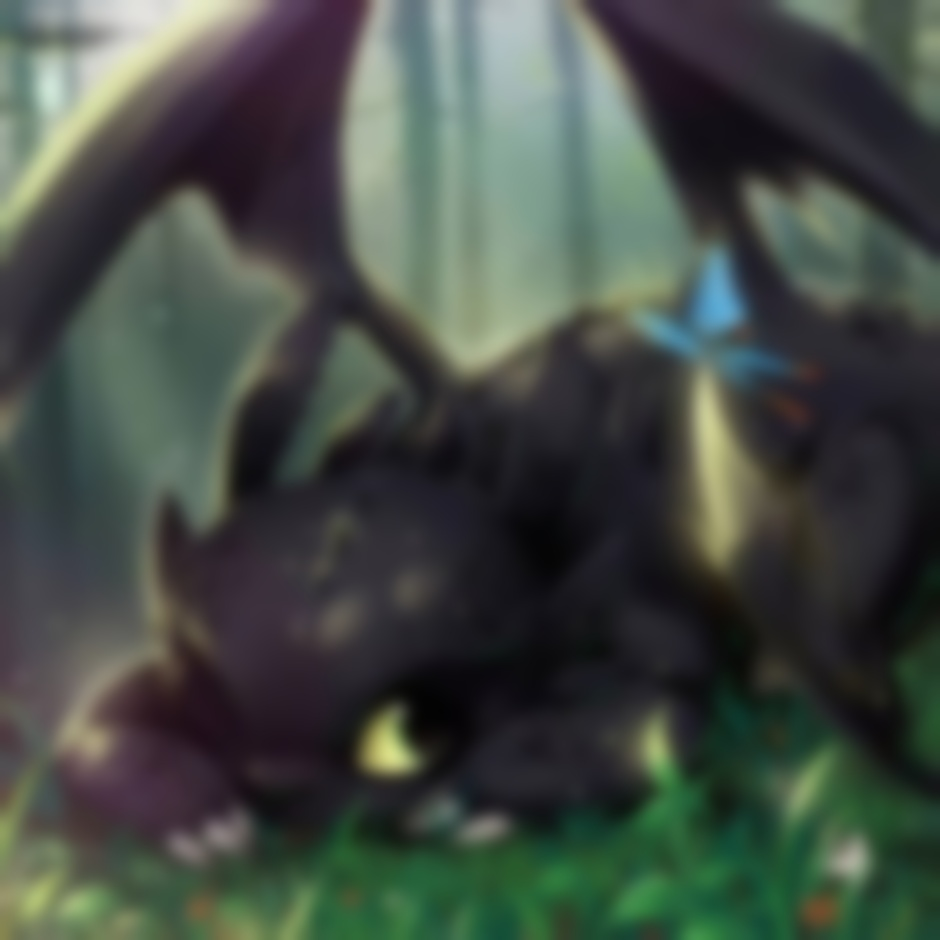
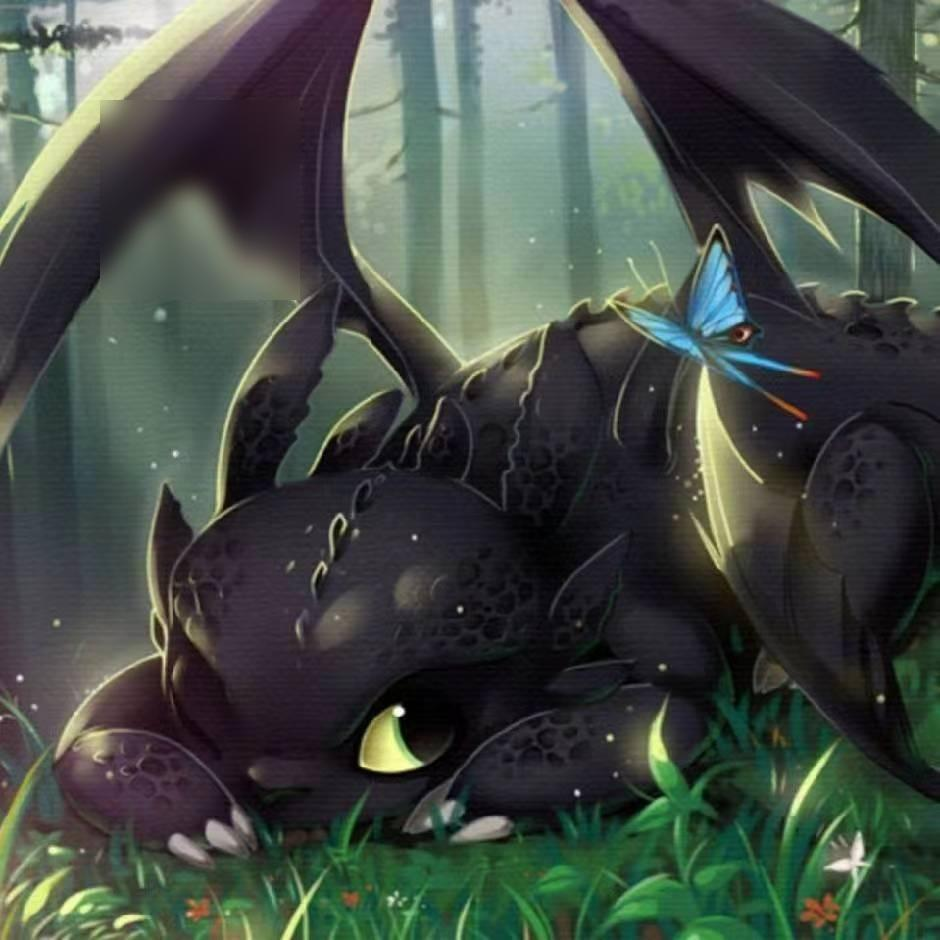
评估图像时返回失真类型及其具体概率(置信度)

diff --git a/noisify.py b/noisify.py
@@ -1,1 +1,108 @@
 # 给图片加上不同种类的噪声
+from PIL import Image, ImageFilter
+
+def add_gaussian_blur(img: Image.Image, x: int = None, y: int = None, width: int = None, height: int = None, radius: float = 5.0) -> Image.Image:
+    """
+    在指定矩形区域加上高斯模糊. 如果未指定坐标和宽高，则直接作用于全图.
+    
+    :param img: 原始 PIL Image 对象
+    :param x: 矩形区域起点横坐标 (为None时默认从0开始)
+    :param y: 矩形区域起点纵坐标 (为None时默认从0开始)
+    :param width: 矩形区域的宽 (为None时默认直到图片边缘)
+    :param height: 矩形区域的高 (为None时默认直到图片边缘)
+    :param radius: 高斯模糊的程度(半径参数，值越大越模糊)
+    :return: 处理后的新图片对象
+    """
+    result = img.copy()
+    
+    x = 0 if x is None else x
+    y = 0 if y is None else y
+    width = img.width if width is None else width
+    height = img.height if height is None else height
+    
+    # 限制边界，防止越界
+    x1, y1 = max(0, x), max(0, y)
+    x2, y2 = min(img.width, x + width), min(img.height, y + height)
+    
+    if x1 >= x2 or y1 >= y2:
+        return result  # 区域无效直接返回
+        
+    box = (x1, y1, x2, y2)
+    region = result.crop(box)
+    
+    # 应用高斯模糊
+    region = region.filter(ImageFilter.GaussianBlur(radius=radius))
+    
+    result.paste(region, box)
+    return result
+
+
+def add_mosaic(img: Image.Image, x: int = None, y: int = None, width: int = None, height: int = None, pixel_size: int = 10) -> Image.Image:
+    """
+    在指定矩形区域加上马赛克模糊. 如果未指定坐标和宽高，则直接作用于全图.
+    
+    :param img: 原始 PIL Image 对象
+    :param x: 矩形区域起点横坐标 (为None时默认从0开始)
+    :param y: 矩形区域起点纵坐标 (为None时默认从0开始)
+    :param width: 矩形区域的宽 (为None时默认直到图片边缘)
+    :param height: 矩形区域的高 (为None时默认直到图片边缘)
+    :param pixel_size: 马赛克方块的边长大小(程度参数，值越大马赛克越大)
+    :return: 处理后的新图片对象
+    """
+    result = img.copy()
+    
+    x = 0 if x is None else x
+    y = 0 if y is None else y
+    width = img.width if width is None else width
+    height = img.height if height is None else height
+    
+    # 限制边界，防止越界
+    x1, y1 = max(0, x), max(0, y)
+    x2, y2 = min(img.width, x + width), min(img.height, y + height)
+    
+    if x1 >= x2 or y1 >= y2:
+        return result  # 区域无效直接返回
+        
+    box = (x1, y1, x2, y2)
+    region = result.crop(box)
+    real_width = x2 - x1
+    real_height = y2 - y1
+    
+    # 兼容处理 PIL 版本常量
+    resample_filter = getattr(Image, 'Resampling', Image).NEAREST
+    
+    # 实现马赛克: 先按比例缩小, 再用最近邻插值放大回原尺寸
+    small_size = (max(1, real_width // pixel_size), max(1, real_height // pixel_size))
+    region = region.resize(small_size, resample=resample_filter)
+    region = region.resize((real_width, real_height), resample=resample_filter)
+    
+    result.paste(region, box)
+    return result
+
+
+if __name__ == '__main__':
+    # 测试代码样例
+    import os
+    
+    test_img_path = 'test_imgs/toothless.jpg'
+    out_dir = 'test_imgs'
+    
+    if os.path.exists(test_img_path):
+        img = Image.open(test_img_path).convert('RGB')
+        
+        # 测试 1: 加高斯模糊 (如起点在100,100，区域大小200x200，模糊半径10)
+        blur_img = add_gaussian_blur(img, x=100, y=100, width=200, height=200, radius=10.0)
+        blur_img.save(os.path.join(out_dir, 'toothless_blur.jpg'))
+        
+        # 测试 2: 加马赛克 (如起点在300,100，区域大小200x200，马赛克块大小15)
+        mosaic_img = add_mosaic(img, x=300, y=100, width=200, height=200, pixel_size=15)
+        mosaic_img.save(os.path.join(out_dir, 'toothless_mosaic.jpg'))
+        
+        # 测试 3: 全图加模糊/马赛克
+        full_blur_img = add_gaussian_blur(img, radius=10.0)
+        full_blur_img.save(os.path.join(out_dir, 'toothless_full_blur.jpg'))
+        
+        full_mosaic_img = add_mosaic(img, pixel_size=15)
+        full_mosaic_img.save(os.path.join(out_dir, 'toothless_full_mosaic.jpg'))
+        
+        print("测试图片生成完毕!")

diff --git a/utils/LIQE.py b/utils/LIQE.py
@@ -1,14 +1,16 @@
-import torch
-import numpy as np
-import clip
-import random
 from itertools import product
-from PIL import Image, ImageFile
-import torch.nn.functional as F
+
+import clip
+import torch
 import torch.nn as nn
+import torch.nn.functional as F
+from PIL import ImageFile
 from torchvision.transforms import Normalize
 
 ImageFile.LOAD_TRUNCATED_IMAGES = True
+
+# 失真类型概率阈值, 超过该阈值的失真类型将被保留; 如果没有任何失真类型超过该阈值, 则保留概率最高的一个失真类型
+DISTORTION_PROB_THRESHOLD = 0.10
 
 scenes = ['animal', 'cityscape', 'human', 'indoor', 'landscape', 'night', 'plant', 'still_life', 'others']
 scene2label = {'animal':0, 'cityscape':1, 'human':2, 'indoor':3, 'landscape':4, 'night':5, 'plant':6, 'still_life':7, 'others':8}
@@ -69,7 +71,7 @@ class LIQE(nn.Module):
         x = self.normalize(x)
         x = x.unfold(2, 224, self.step).unfold(3, 224, self.step).permute(0, 2, 3, 1, 4, 5).reshape(batch_size, -1, 3, 224, 224)
 
-        sel_step = x.size(0) // self.num_patch
+        sel_step = x.size(1) // self.num_patch
         sel = torch.zeros(self.num_patch)
         for i in range(self.num_patch):
             sel[i] = sel_step * i
@@ -97,19 +99,41 @@ class LIQE(nn.Module):
 
         similarity_scene = logits_per_image.sum(3).sum(1)
         similarity_distortion = logits_per_image.sum(1).sum(1)
-        distortion_index = similarity_distortion.argmax(dim=1)
         scene_index = similarity_scene.argmax(dim=1)
+
+        # print('similarity_scene = ', similarity_scene)
+
+        # 保留所有概率超过阈值的失真类型; 如果没有任何失真类型超过该阈值, 则保留概率最高的一个失真类型
+        distortions = []
+        distortion_top1 = []
+        for sample_probs in similarity_distortion:
+            candidates = []
+            for idx, prob in enumerate(sample_probs.tolist()):
+                prob = float(prob)
+                if prob >= DISTORTION_PROB_THRESHOLD:
+                    candidates.append((idx, prob))
+
+            if not candidates:
+                top_idx = int(sample_probs.argmax().item())
+                candidates = [(top_idx, float(sample_probs[top_idx].item()))]
+            else:
+                candidates.sort(key=lambda x: x[1], reverse=True)
+
+            selected = [{"index": idx, "prob": round(prob, 4)} for idx, prob in candidates]
+            distortions.append(selected)
+            distortion_top1.append(selected[0]["index"])
+
+        distortion_top1 = torch.tensor(distortion_top1, dtype=torch.long, device=similarity_distortion.device)
 
         quality = 1 * logits_quality[:, 0] + 2 * logits_quality[:, 1] + 3 * logits_quality[:, 2] + \
                              4 * logits_quality[:, 3] + 5 * logits_quality[:, 4]
 
-        # Return class codes so downstream services can use stable numeric values.
-        return quality, scene_index, distortion_index
+        return quality, scene_index, distortion_top1, distortions
 
 if __name__ == '__main__':
     device = 'cuda:0' if torch.cuda.is_available() else 'cpu'
-    ckpt = './LIQE.pt'
+    ckpt = '../weights/LIQE.pt'
     liqe = LIQE(ckpt, device)
 
     x = torch.randn(1,3,512,512).to(device)
-    q, s, d = liqe(x)
+    q, s, d, ds = liqe(x)

diff --git a/predict_liqe.py b/predict_liqe.py
@@ -2,12 +2,46 @@ import torch
 import numpy as np
 import random
 import os
+import json
 import pandas as pd
 from tqdm import tqdm
 from PIL import Image, ImageFile
 ImageFile.LOAD_TRUNCATED_IMAGES = True
 from utils.LIQE import LIQE
 from torchvision.transforms import ToTensor
+
+def predict_single_image(img_path, ckpt_path, model=None):
+    """
+    评估单张图片并返回结果字典，不保存到文件。
+    支持传入已加载的 model，以避免频繁调用时重复加载模型。
+    """
+    device = torch.device('cuda' if torch.cuda.is_available() else 'cpu')
+
+    if model is None:
+        try:
+            model = LIQE(ckpt_path, device)
+            model.eval()
+        except Exception as e:
+            print(f"模型加载失败: {e}")
+            return None
+
+    try:
+        img = Image.open(img_path).convert('RGB')
+        img_tensor = ToTensor()(img).unsqueeze(0)
+
+        with torch.no_grad():
+            q, s, d, ds = model(img_tensor)
+
+        return {
+            'image_name': os.path.basename(img_path),
+            'quality_score': q.item(),
+            'scene': int(s.item()),
+            'distortion': int(d.item()),
+            'distortions': ds[0]  # 返回Python对象数组，方便程序后续调用
+        }
+    except Exception as e:
+        print(f"处理图片 {img_path} 失败: {e}")
+        return None
 
 def batch_process_liqe(img_dir, ckpt_path, output_file):
     # 1. 设置随机种子和设备
@@ -55,13 +89,14 @@ def batch_process_liqe(img_dir, ckpt_path, output_file):
                 img_tensor = ToTensor()(img).unsqueeze(0)
 
                 # 推理
-                q, s, d = model(img_tensor)
+                q, s, d, ds = model(img_tensor)
 
                 results.append({
                     'image_name': filename,
                     'quality_score': q.item(),
                     'scene': int(s.item()),
-                    'distortion': int(d.item())
+                    'distortion': int(d.item()),
+                    'distortions': json.dumps(ds[0], ensure_ascii=False, separators=(",", ":"))
                 })
             except Exception as e:
                 print(f"\n跳过损坏图片 {filename}: {e}")
@@ -86,10 +121,12 @@ def batch_process_liqe(img_dir, ckpt_path, output_file):
     print(f"\n处理完成！结果已保存至: {output_file}")
 
 if __name__ == '__main__':
-    print("STARTING LIQE BATCH PROCESS")
+    print("开始预测")
     # === 请修改以下配置 ===
     INPUT_FOLDER = 'test_imgs'         # 图片存放文件夹
     LIQE_WEIGHTS = 'weights/LIQE.pt' # LIQE 模型权重路径
     OUTPUT_PATH = 'out/liqe_results.csv'   # 输出文件名 (支持 .csv 或 .xlsx)
 
     batch_process_liqe(INPUT_FOLDER, LIQE_WEIGHTS, OUTPUT_PATH)
+    # print(predict_single_image('./test_imgs/toothless.jpg', LIQE_WEIGHTS))
+

diff --git a/api_server.py b/api_server.py
@@ -1,4 +1,5 @@
 import os
+import json
 from io import BytesIO
 from typing import List
 from contextlib import asynccontextmanager
@@ -17,12 +18,19 @@ ImageFile.LOAD_TRUNCATED_IMAGES = True  # 允许读取被截断的图片
 VALID_EXTENSIONS = (".jpg", ".jpeg", ".png", ".bmp", ".tiff")  # 批量处理允许的扩展名
 
 
+class DistortionProb(BaseModel):
+    # 失真类型概率项
+    index: int
+    prob: float
+
+
 class PredictResult(BaseModel):
     # 单张图片推理的响应结构
     file_name: str | None = None
     quality_score: float
     scene: int
     distortion: int
+    distortions: List[DistortionProb]
 
 
 class BatchPredictResponse(BaseModel):
@@ -69,12 +77,14 @@ def _predict_image(model: LIQE, device: torch.device, img: Image.Image) -> Predi
     # ToTensor 会将 PIL.Image 转为 [0,1] 的 float Tensor
     img_tensor = ToTensor()(img).unsqueeze(0).to(device)
     with torch.no_grad():
-        # 模型输出: 质量分数,场景编码,失真编码
-        q, s, d = model(img_tensor)
+        # 模型输出: 质量分数,场景编码,兼容失真编码,失真概率列表
+        q, s, d, ds = model(img_tensor)
+    distortion_items = [DistortionProb(index=item["index"], prob=item["prob"]) for item in ds[0]]
     return PredictResult(
         quality_score=float(q.item()),
         scene=int(s.item()),
-        distortion=int(d.item()),
+        distortion=distortion_items[0].index,
+        distortions=distortion_items,
     )
 
 
@@ -183,6 +193,11 @@ def process_folder(payload: ProcessFolderRequest) -> ProcessFolderResult:
                     "quality_score": pred.quality_score,
                     "scene": pred.scene,
                     "distortion": pred.distortion,
+                    "distortions": json.dumps(
+                        [{"index": item.index, "prob": item.prob} for item in pred.distortions],
+                        ensure_ascii=False,
+                        separators=(",", ":"),
+                    ),
                 }
             )
         except Exception:  # noqa: BLE001

diff --git a/README.md b/README.md
@@ -19,10 +19,3 @@ python api_server.py
 服务启动后：
 - `POST /predict`
 - `POST /predict/batch`
-- `POST /process/folder`
-
-### 本地冒烟测试
-
-```powershell
-python smoke_test.py
-```
